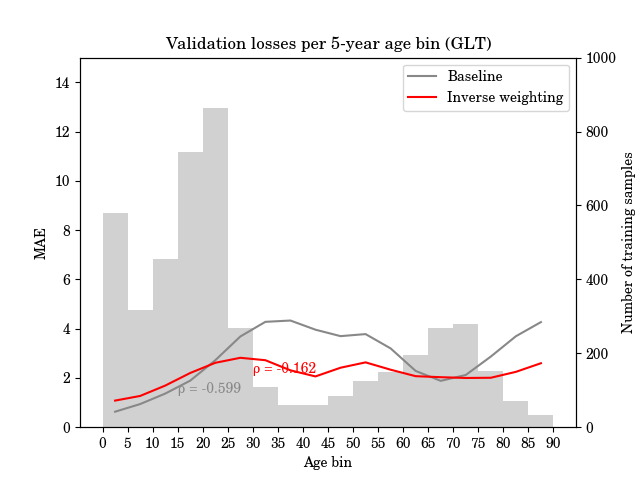
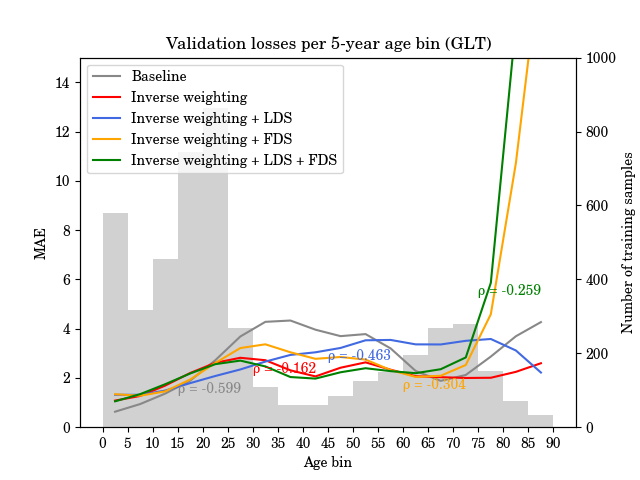
gen master figures/table

diff --git a/age_prediction/gen_table.py b/age_prediction/gen_table.py
@@ -1,0 +1,70 @@
+import re
+import sys
+from collections import defaultdict
+
+def display_arch(arch):
+    return {
+        'resnet18': "ResNet-18",
+        'vgg8': "VGG8",
+        'sfcn': "SFCN",
+        'glt': "GLT",
+        'relnet-sum': "RelationNet-sum",
+        'relnet-max': "RelationNet-max",
+        'relnet-min': "RelationNet-min"
+    }[arch]
+
+def display_strat(strat):
+    return {
+        'baseline': 'Baseline',
+        'under': 'Undersampling',
+        'scale-down': 'Scaling down',
+        'over': 'Oversampling',
+        'scale-up': 'Scaling up',
+        'inv': 'Inv',
+        'lds+inv': 'Inv + LDS',
+        'fds+inv': 'Inv + FDS',
+        'lds+fds+inv': 'Inv + LDS + FDS',
+        'sqrt_inv': 'SqInv',
+        'lds+sqrt_inv': 'SqInv + LDS',
+        'fds+sqrt_inv': 'SqInv + FDS',
+        'lds+fds+sqrt_inv': 'SqInv + LDS + FDS'
+    }[strat]
+
+def write_header(arch):
+    print(f"        \multirow{{13}}{{*}}{{{display_arch(arch)}}} \\\\")
+
+def write_results(strat, results):
+    print(f"        & {display_strat(strat)} & {results[0]} & {results[1]} & {results[2]} & {results[3]} \\\\ \\cline{{2-6}}")
+
+def main():
+    input_file = sys.argv[1]
+    with open(input_file, 'r') as f:
+        to_parse = f.read()
+    
+    sections = to_parse.split('\n======\n')
+    d = defaultdict(dict)
+    for section in sections:
+        sec_lines = section.split('\n')
+        if len(sec_lines) != 4:
+            continue
+
+        overall_mae = float(sec_lines[0].split(' ')[-1])
+        rho = float(sec_lines[1].split(' ')[-1])
+        entropy = float(sec_lines[2].split(' ')[-1])
+        criterion = float(sec_lines[3].split(' ')[-1])
+
+        m = re.match(r'.* for (.*) \((.*)\).*', sec_lines[0])
+        strat, arch = m[1], m[2]
+
+        d[arch][strat] = (overall_mae, rho, entropy, criterion)
+
+    for arch in ('resnet18', 'vgg8', 'glt', 'sfcn', 'relnet-sum', 'relnet-max', 'relnet-min'):
+        write_header(arch)
+        for strat in ('baseline', 'under', 'scale-down', 'over', 'scale-up', 'inv', 'lds+inv', 'fds+inv', 'lds+fds+inv', 'sqrt_inv', 'lds+sqrt_inv', 'fds+sqrt_inv', 'lds+fds+sqrt_inv'):
+            if strat not in d[arch]:
+                continue
+            results = d[arch][strat]
+            write_results(strat, results)
+
+if __name__ == '__main__':
+    main()

diff --git a/age_prediction/plot_results.py b/age_prediction/plot_results.py
@@ -246,17 +246,17 @@ def main():
         plot_val_losses(all_results, arch,
             [
                 ('inv', "Inverse weighting", 'red', '-'),
-                ('inv+lds', "Inverse weighting + LDS", 'royalblue', '-'),
-                ('inv+fds', "Inverse weighting + FDS", 'orange', '-'),
-                ('inv+lds+fds', "Inverse weighting + LDS + FDS", 'green', '-')
+                ('lds+inv', "Inverse weighting + LDS", 'royalblue', '-'),
+                ('fds+inv', "Inverse weighting + FDS", 'orange', '-'),
+                ('lds+fds+inv', "Inverse weighting + LDS + FDS", 'green', '-')
             ],
             f"val_losses_{arch}_reweighting_inv.png")
         plot_val_losses(all_results, arch,
             [
                 ('sqrt_inv', "Square-root inverse weighting", 'red', '-'),
-                ('sqrt_inv+lds', "Square-root inverse weighting + LDS", 'royalblue', '-'),
-                ('sqrt_inv+fds', "Square-root inverse weighting + FDS", 'orange', '-'),
-                ('sqrt_inv+lds+fds', "Square-root inverse weighting + LDS + FDS", 'green', '-')
+                ('lds+sqrt_inv', "Square-root inverse weighting + LDS", 'royalblue', '-'),
+                ('fds+sqrt_inv', "Square-root inverse weighting + FDS", 'orange', '-'),
+                ('lds+fds+sqrt_inv', "Square-root inverse weighting + LDS + FDS", 'green', '-')
             ],
             f"val_losses_{arch}_reweighting_sqrt_inv.png")
     

diff --git a/age_prediction/merge_figures.py b/age_prediction/merge_figures.py
@@ -1,0 +1,26 @@
+import sys
+from PIL import Image
+
+def main():
+    output_path = sys.argv[1]
+    image_paths = sys.argv[2:]
+    left_col = [Image.open(path) for i, path in enumerate(image_paths) if i % 2 == 0]
+    right_col = [Image.open(path) for i, path in enumerate(image_paths) if i % 2 != 0]
+
+    grid_width = left_col[0].size[0] + right_col[0].size[0]
+    grid_height = sum([img.size[1] for img in left_col])
+    assert grid_height == sum([img.size[1] for img in right_col])
+
+    grid_img = Image.new('RGB', (grid_width, grid_height))
+
+    row_cursor = 0
+    for i, (left_img, right_img) in enumerate(zip(left_col, right_col)):
+        grid_img.paste(left_img, (0, row_cursor))
+        grid_img.paste(right_img, (left_img.size[0], row_cursor))
+        assert left_img.size[1] == right_img.size[1]
+        row_cursor += left_img.size[1]
+    
+    grid_img.save(output_path)
+
+if __name__ == '__main__':
+    main()
